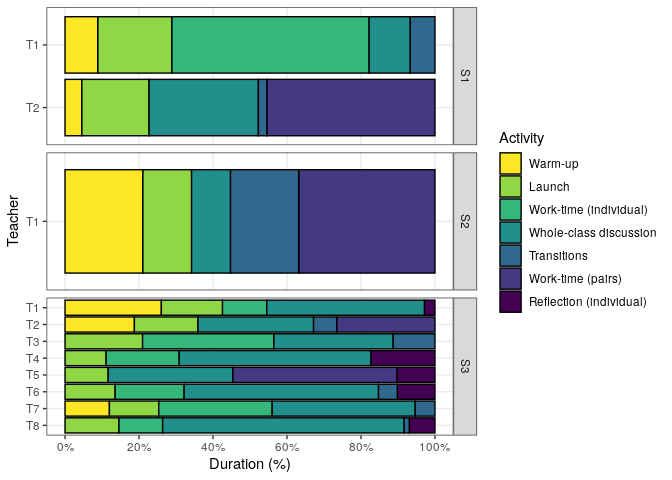
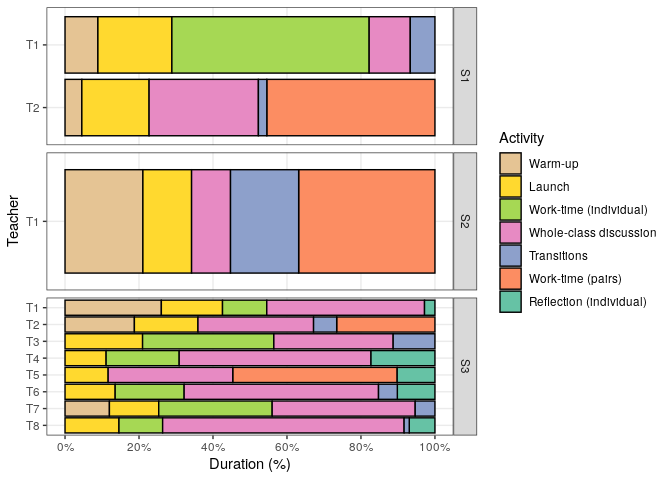
changes

diff --git a/bar_graphs.md b/bar_graphs.md
@@ -1,12 +1,13 @@
 Time charts for observed lessons
 ================
 Saurabh Khanna
-2020-04-21
+2020-04-22
 
   - [Time charts](#time-charts)
       - [Reading in data](#reading-in-data)
       - [Graphs by percentage duration](#graphs-by-percentage-duration)
       - [Graphs by total duration](#graphs-by-total-duration)
+      - [SFUSD and JM](#sfusd-and-jm)
 
 ``` r
 # Libraries
@@ -59,7 +60,8 @@ df <-
   arrange(school, teacher) %>%
   mutate(
     act = act %>% fct_inorder() %>% fct_rev(),
-    teacher = teacher %>% fct_inorder() %>% fct_rev()
+    teacher = teacher %>% fct_inorder() %>% fct_rev(),
+    curriculum = if_else(school == "S3", "Japan Math", "SFUSD")
   )
 ```
 
@@ -79,7 +81,7 @@ df %>%
     minor_breaks = NULL,
     labels = scales::percent_format(accuracy = 1)
   ) +
-  scale_fill_viridis_d() +
+  scale_fill_brewer(palette = "Set2") +
   guides(fill = guide_legend(reverse = T)) +
   theme_bw() +
   coord_flip() +
@@ -99,7 +101,7 @@ df %>%
 df %>% 
   ggplot(aes(teacher, time, fill = act)) +
   geom_col(position = "stack", color = "black") +
-  scale_fill_viridis_d() +
+  scale_fill_brewer(palette = "Set2") +
   guides(fill = guide_legend(reverse = T)) +
   scale_y_continuous(
     breaks = seq(0, 80, 10)
@@ -115,3 +117,35 @@ df %>%
 ```
 
 ![](bar_graphs_files/figure-gfm/unnamed-chunk-4-1.png)<!-- -->
+
+## SFUSD and JM
+
+``` r
+df %>% 
+  group_by(curriculum, act) %>% 
+  summarize(
+    time_mean = mean(time)
+  ) %>% 
+  mutate(
+    time_perc = time_mean / sum(time_mean)
+  ) %>% 
+  ungroup() %>% 
+  ggplot(aes(curriculum, time_perc, fill = act)) +
+  geom_col(position = "stack", color = "black") +
+  scale_y_continuous(
+    breaks = seq(0, 1, 0.2),
+    minor_breaks = NULL,
+    labels = scales::percent_format(accuracy = 1)
+  ) +
+  scale_fill_brewer(palette = "Set2") +
+  guides(fill = guide_legend(reverse = T)) +
+  theme_bw() +
+  coord_flip() +
+  labs(
+    x = "Curriculum",
+    y = "Duration (%)",
+    fill = "Activity"
+  )
+```
+
+![](bar_graphs_files/figure-gfm/unnamed-chunk-5-1.png)<!-- -->
